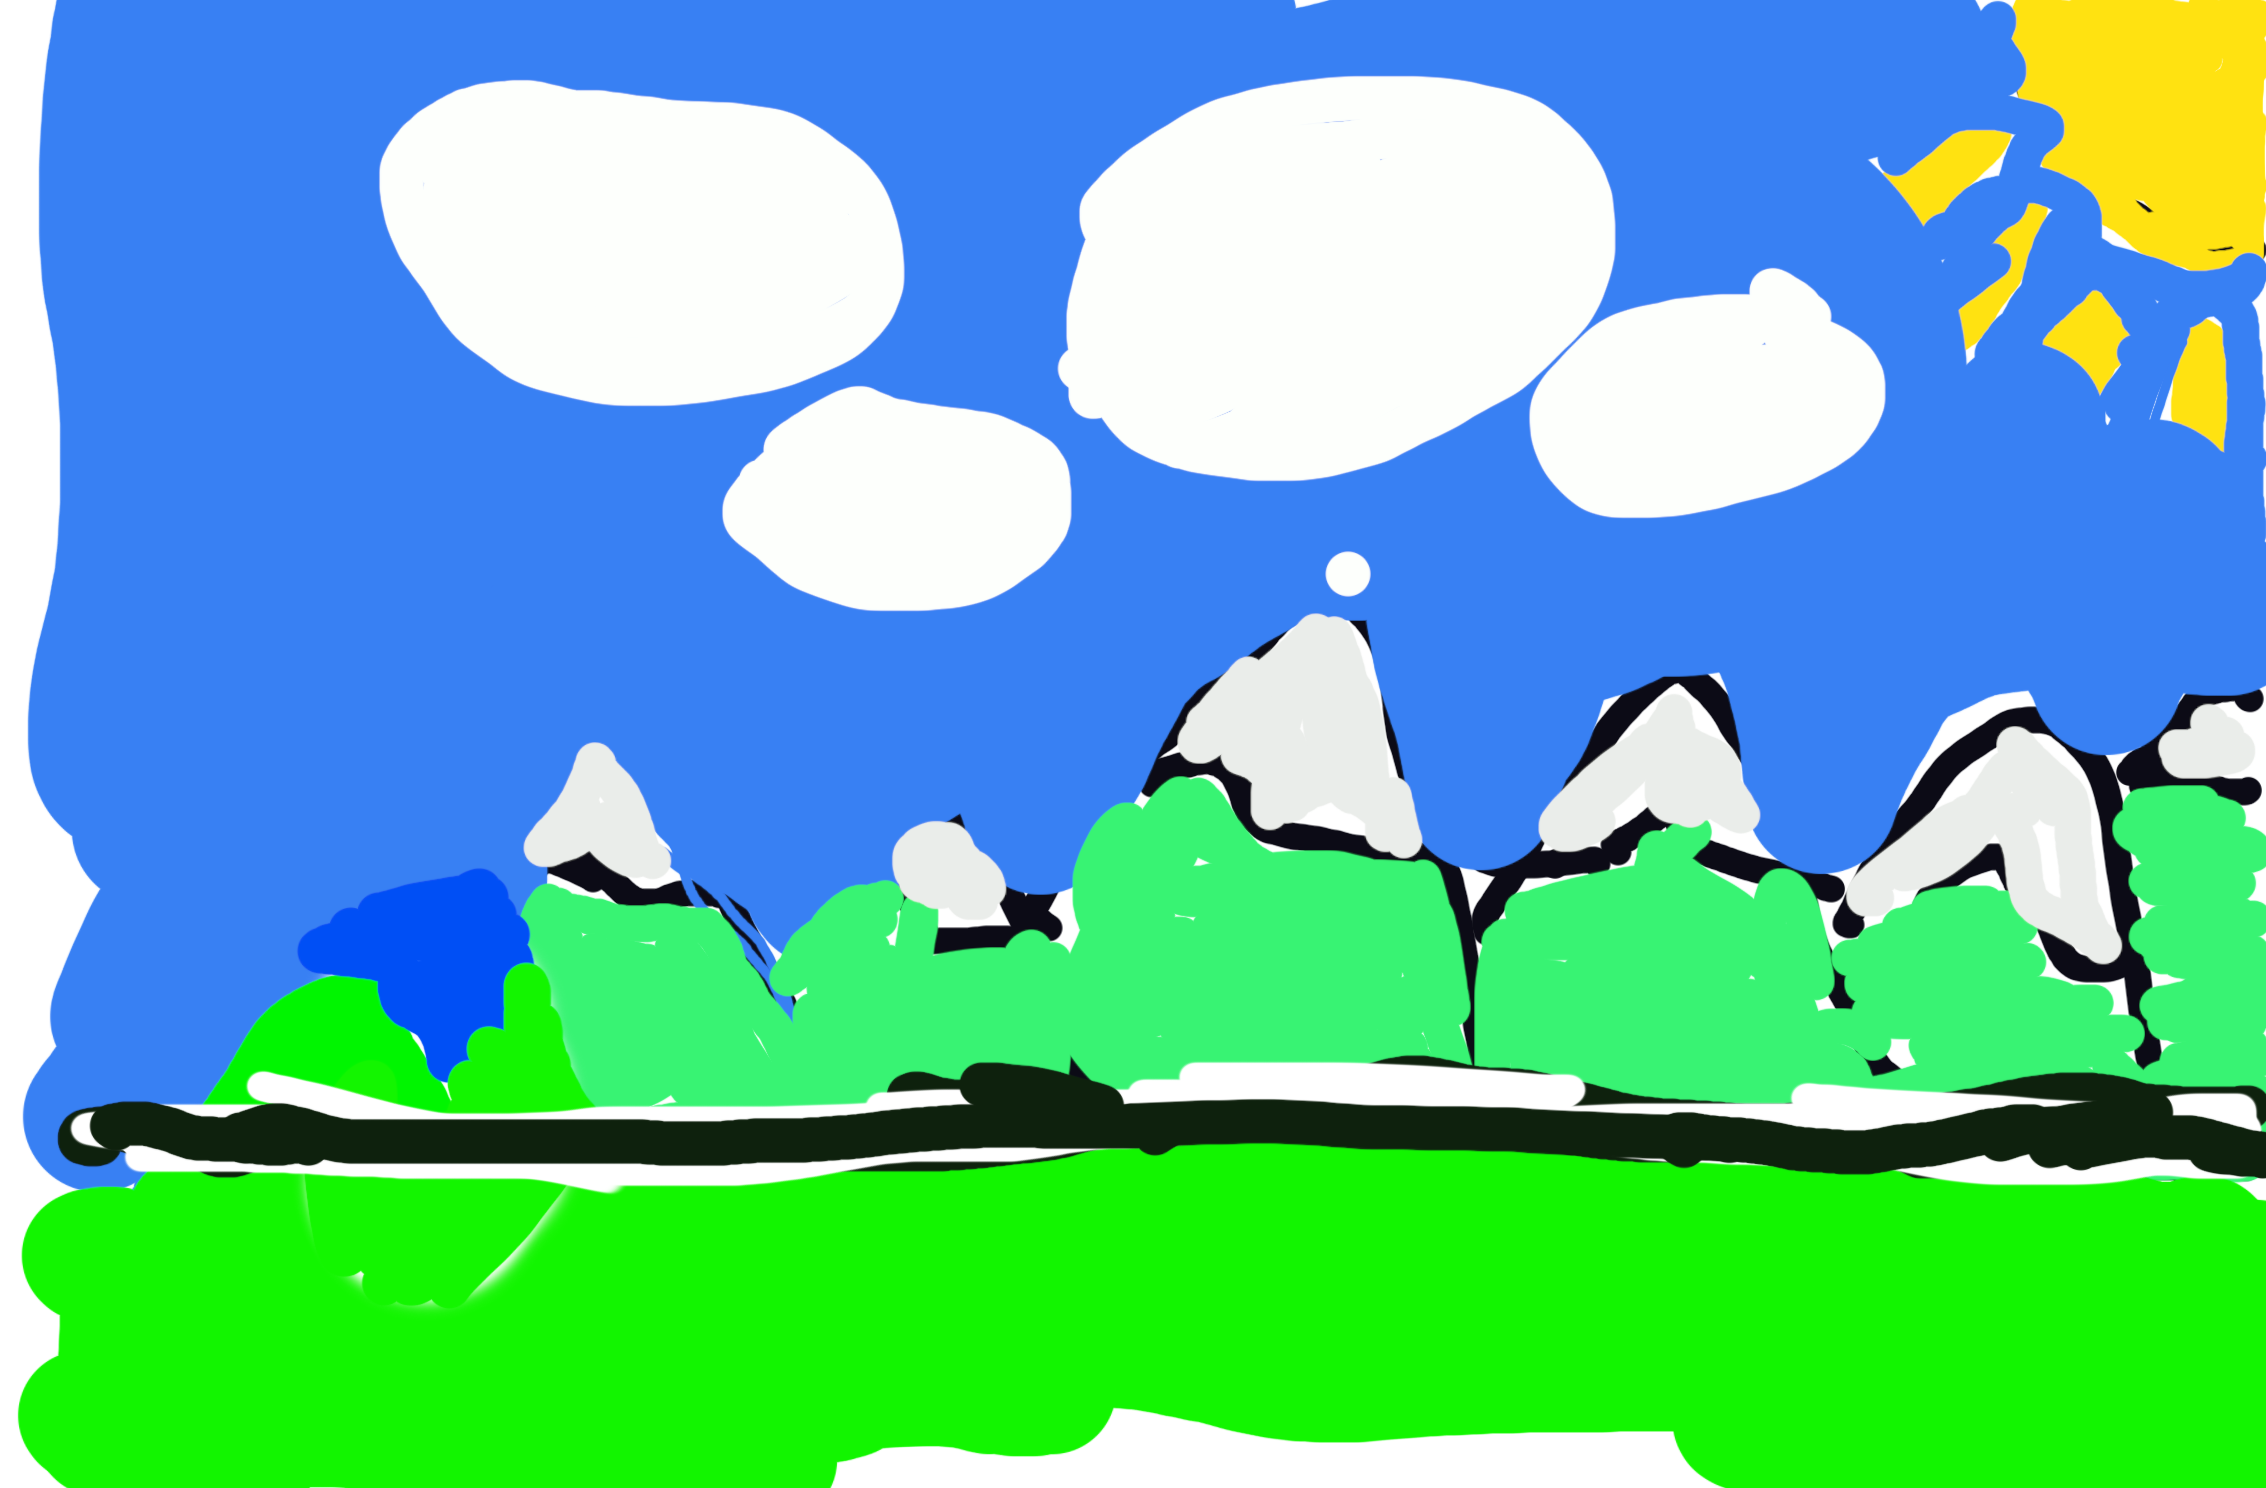
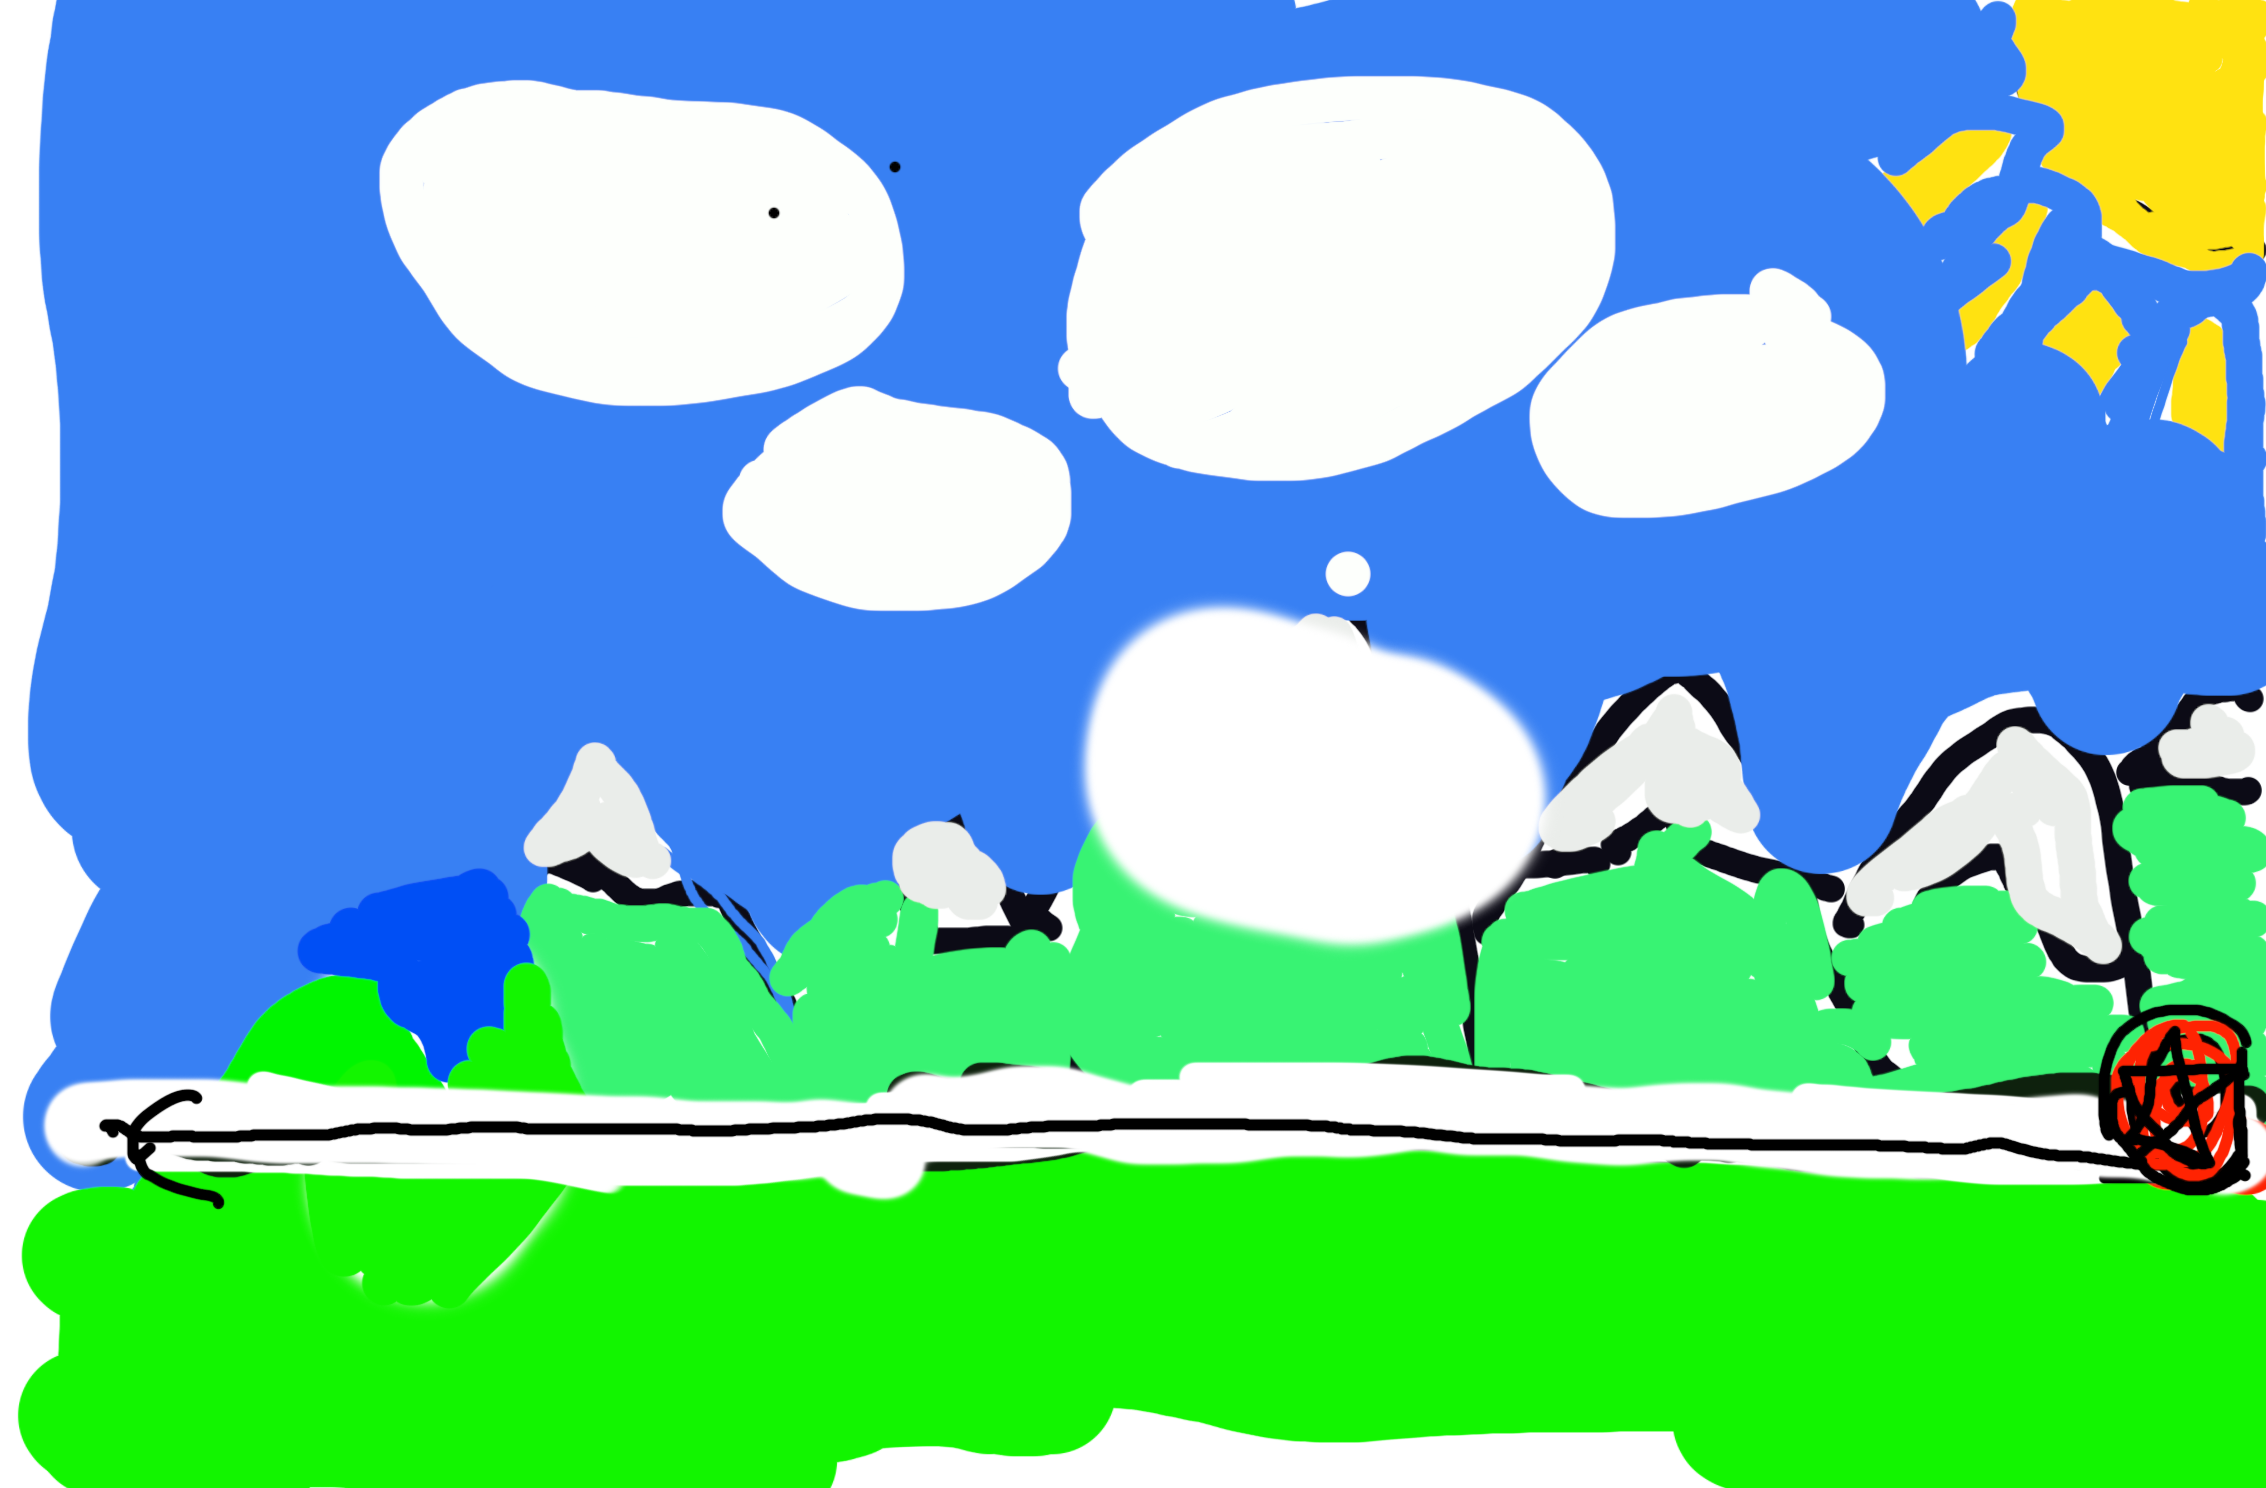
ammo update

Changed region(s): [[0.0, 0.6492, 1.0, 0.8038], [0.4634, 0.4019, 0.7105, 0.6492]]

diff --git a/player.py b/player.py
@@ -1,10 +1,32 @@
 import pygame
 
 
+class AmmoBox(pygame.sprite.Sprite):
+    def __init__(self, x, y):
+        super().__init__()
+        self.image = pygame.image.load("assets/ammo.jpg")
+        self.image = pygame.transform.scale(self.image, (60, 60))
+        self.rect = self.image.get_rect()
+        self.rect.x = x
+        self.rect.y = y
+        self.speed = 3  # Movement speed
+        self.screen_width = pygame.display.Info().current_w
+
+    def update(self):
+        # Move left to right
+        self.rect.x += self.speed
+
+        # Wrap around when reaching screen edge
+        if self.rect.left > self.screen_width:
+            self.rect.right = 0
+        elif self.rect.right < 0:
+            self.rect.left = self.screen_width
+
+
 class Player(pygame.sprite.Sprite):
     def __init__(self, x, y):
         super().__init__()
-        self.health = 2  # Initialize player health to 2
+        self.health = 2
         # Load player images
         self.images = [pygame.image.load(f"assets/taimei{i}.png") for i in range(1, 4)]
         self.images = [pygame.transform.scale(img, (70, 110)) for img in self.images]
@@ -19,10 +41,12 @@ class Player(pygame.sprite.Sprite):
         self.last_change = pygame.time.get_ticks()
         self.change_delay = 10000
         self.last_sound_time = 0
-        self.sound_cooldown = 200  # Minimum time between sounds in ms
+        self.sound_cooldown = 200
         self.bullets = pygame.sprite.Group()
-        self.shoot_cooldown = 500  # Milliseconds between shots
+        self.shoot_cooldown = 500
         self.last_shot_time = 0
+        self.ammo = 0  # Start with no ammo
+        self.has_ammo_box = True  # Flag to track if ammo box exists
 
     def update(self):
         keys = pygame.key.get_pressed()
@@ -52,8 +76,8 @@ class Player(pygame.sprite.Sprite):
             moving = True
             pygame.mixer.Sound("sounds/wing.wav").play()
 
-        # Handle space key
-        if keys[pygame.K_SPACE]:
+        # Handle shooting only if player has ammo
+        if keys[pygame.K_SPACE] and self.ammo > 0:
             # Cycle through player images
             if self.current_image < len(self.images) - 1:
                 self.current_image += 1
@@ -68,6 +92,7 @@ class Player(pygame.sprite.Sprite):
             if now - self.last_shot_time > self.shoot_cooldown:
                 self.shoot()
                 self.last_shot_time = now
+                self.ammo -= 1
 
         # Apply gravity
         self.velocity_y += 1
@@ -105,3 +130,12 @@ class Player(pygame.sprite.Sprite):
 
         bullet = Bullet(self.rect.centerx, self.rect.centery)
         self.bullets.add(bullet)
+
+    def collect_ammo(self, ammo_box):
+        """Called when player collects ammo box"""
+        if self.rect.colliderect(ammo_box.rect) and self.velocity_y < 0:  # Only collect when jumping up
+            self.ammo += 200
+            ammo_box.kill()
+            pygame.mixer.Sound("sounds/point.wav").play()
+            return True  # Indicate successful collection
+        return False

diff --git a/ui.py b/ui.py
@@ -1,28 +1,33 @@
-import pygame  # Imports the Pygame library
+import pygame
 
-
-class UI:  # Creates a UI class
-    def __init__(self):  # Defines the constructor for the UI class
-        self.score = 0  # Initialize score
-        self.lives = 3  # Initialize lives
+class UI:
+    def __init__(self):
+        self.score = 0
+        self.health = 2
+        # Load heart images
+        self.heart_full = pygame.image.load("assets/heart_full.png")
+        self.heart_empty = pygame.image.load("assets/heart_empty.png")
+        # Scale heart images
+        self.heart_full = pygame.transform.scale(self.heart_full, (30, 30))
+        self.heart_empty = pygame.transform.scale(self.heart_empty, (30, 30))
 
     def update_score(self):
         """Update the score display"""
         pass
 
-    def draw(self, screen):  # Defines a method to draw the UI on the screen
-        font = pygame.font.Font(
-            None, 36
-        )  # Creates a font object with the default font and size 36
-        score_text = font.render(
-            f"Score: {self.score}", True, (0, 0, 0)
-        )  # Renders the score text with white color
-        lives_text = font.render(
-            f"Lives: {self.lives}", True, (0, 0, 0)
-        )  # Renders the lives text with white color
-        screen.blit(
-            score_text, (10, 10)
-        )  # Draws the score text on the screen at position (10, 10)
-        screen.blit(
-            lives_text, (10, 50)
-        )  # Draws the lives text on the screen at position (10, 50)
+    def draw(self, screen, ammo=0):
+        # Draw score
+        font = pygame.font.Font(None, 36)
+        text = font.render(f"Score: {self.score}", True, (255, 255, 255))
+        screen.blit(text, (20, 20))
+
+        # Draw health
+        for i in range(2):
+            if i < self.health:
+                screen.blit(self.heart_full, (20 + i * 40, 60))
+            else:
+                screen.blit(self.heart_empty, (20 + i * 40, 60))
+
+        # Draw ammo count
+        ammo_text = font.render(f"Ammo: {ammo}", True, (255, 255, 255))
+        screen.blit(ammo_text, (20, 100))

diff --git a/main.py b/main.py
@@ -1,5 +1,5 @@
 import pygame
-from player import Player
+from player import Player, AmmoBox
 from enemy import Enemy
 from level import Level
 from ui import UI
@@ -62,6 +62,12 @@ level = Level(level_data)
 
 # Create UI
 ui = UI()
+
+# Create ammo box variables
+ammo_box = None
+ammo_box_group = pygame.sprite.Group()
+last_ammo_box_time = 0
+AMMO_BOX_INTERVAL = 5000  # 5 seconds in milliseconds
 
 # Game states
 running = True
@@ -148,8 +154,24 @@ while running:
             new_enemy = Enemy(int(screen_width * 0.9), 605)
             enemy_group.add(new_enemy)
 
-    # Draw UI
-    ui.draw(screen)
+    # Update and draw ammo box
+    current_time = pygame.time.get_ticks()
+
+    # Spawn new ammo box if enough time has passed and no box exists
+    if ammo_box is None and current_time - last_ammo_box_time > AMMO_BOX_INTERVAL:
+        ammo_box = AmmoBox(-50, 550)  # Start off screen
+        ammo_box_group.add(ammo_box)
+        last_ammo_box_time = current_time
+
+    ammo_box_group.update()
+    ammo_box_group.draw(screen)
+
+    # Check for ammo box collision
+    if ammo_box and player.collect_ammo(ammo_box):
+        ammo_box = None  # Mark current box as collected
+
+    # Draw UI with ammo count
+    ui.draw(screen, player.ammo)
 
     # Draw game over screen
     if game_over:
